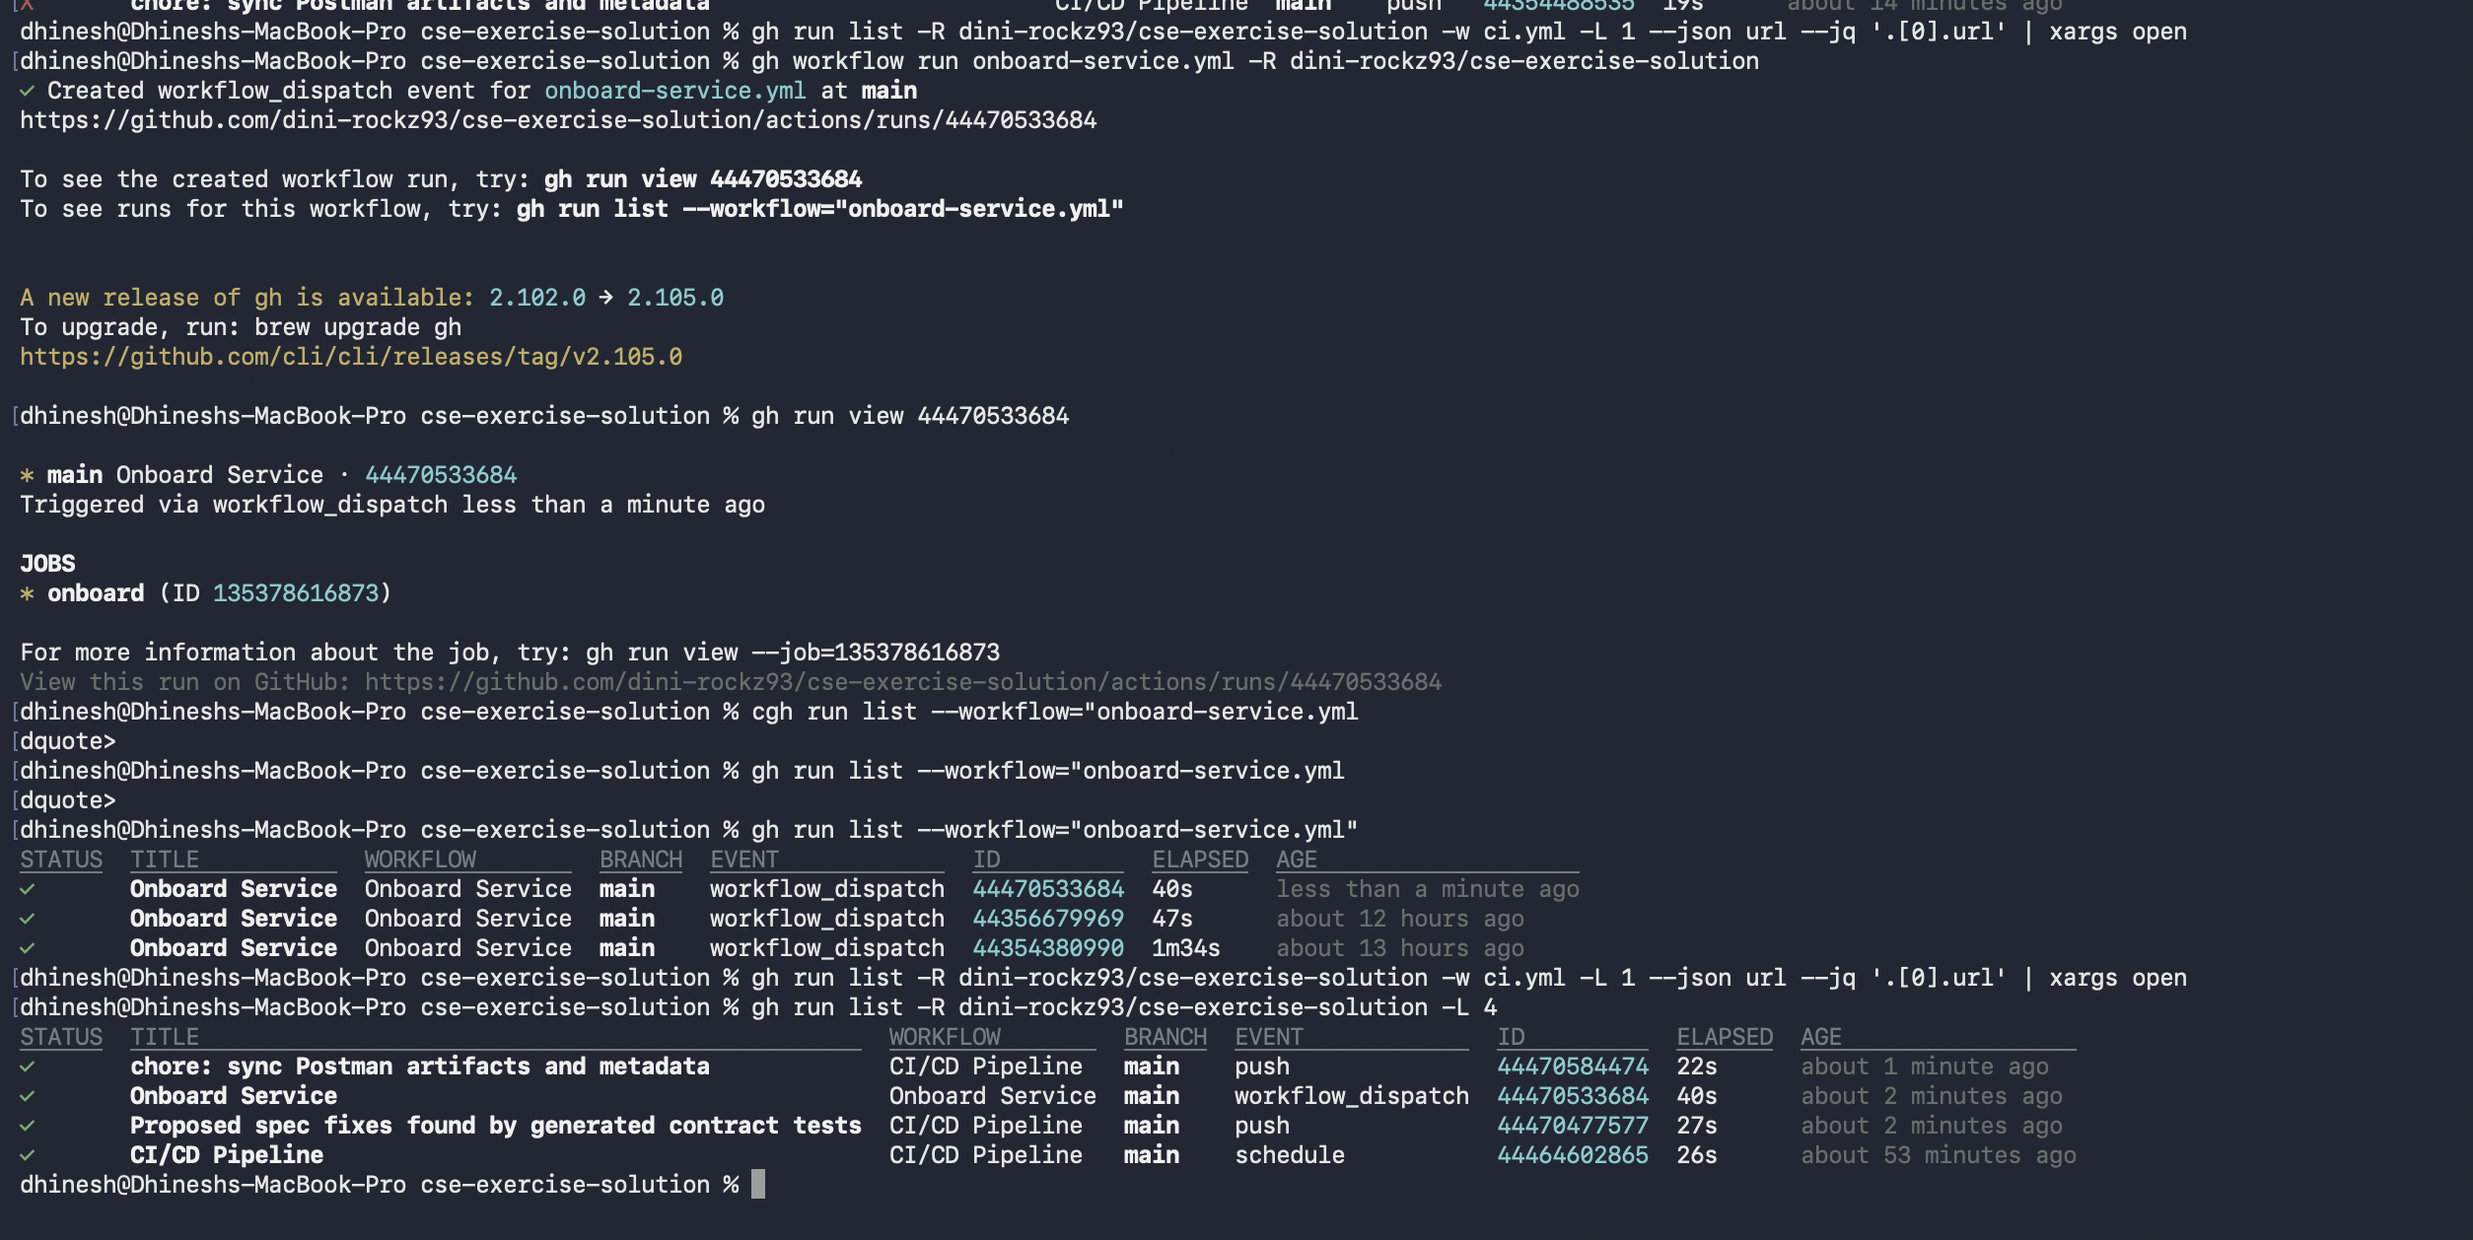
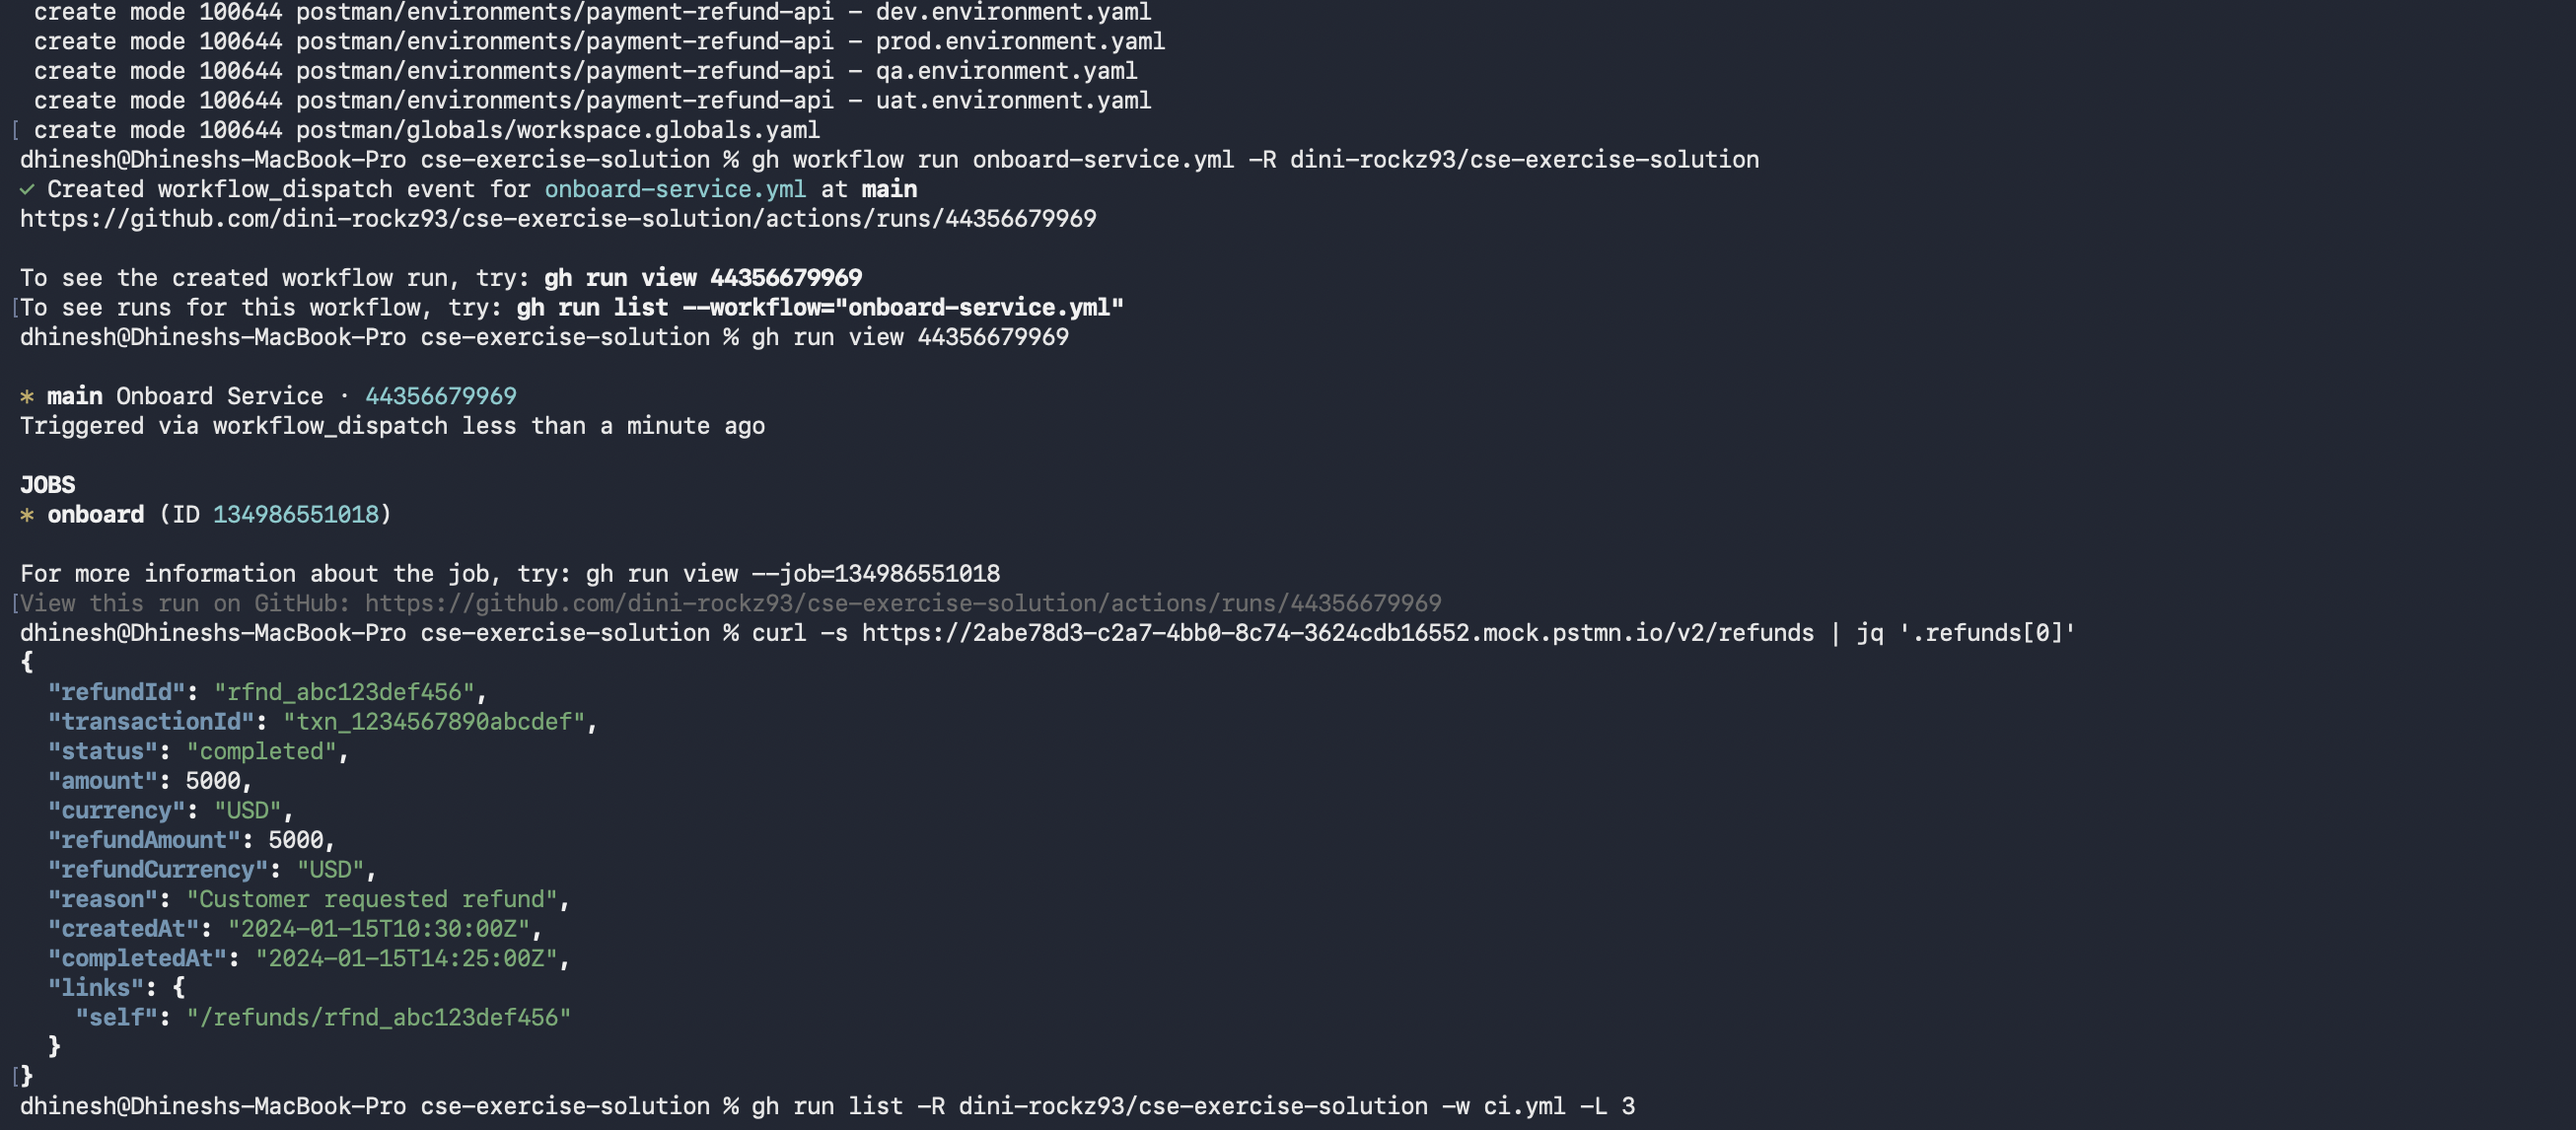
Add terminal screenshots of the rerun and the run chain

Changed region(s): [[0.0, 0.0, 0.8708, 1.0], [0.6842, 0.7635, 0.8708, 0.7941]]

diff --git a/README.md b/README.md
@@ -54,6 +54,8 @@ place. The rerun log shows *"Using existing workspace"*, *"Deep-updated existing
 baseline/smoke/contract collection"* and *"Discovered existing mock … existing
 monitor"*, with the same IDs as run 1 and no duplicates.
 
+![Terminal: rerun dispatched from the CLI, then the mock answering GET /v2/refunds](docs/screenshots/15-terminal-rerun-and-mock.png)
+
 ## Decisions I made
 
 ### I bypassed the starter asset instead of fixing it in place
@@ -318,6 +320,7 @@ All taken from the real runs on 18–19 Nov 2026.
 | [12-pat-permissions-fixed](docs/screenshots/12-pat-permissions-fixed.png) | GitHub token with the permissions the workflow needs |
 | [13-terminal-spec-fix-run-chain](docs/screenshots/13-terminal-spec-fix-run-chain.png) | Terminal: onboarding dispatched from the CLI, and the commit → onboard → sync → CI chain |
 | [14-monitor-local-value-bug](docs/screenshots/14-monitor-local-value-bug.png) | Monitor hitting `http://refunds/...` while `baseUrl` was a local-only value |
+| [15-terminal-rerun-and-mock](docs/screenshots/15-terminal-rerun-and-mock.png) | Terminal: rerun dispatched from the CLI, and `curl` against the mock |
 
 ## How I used AI
 
